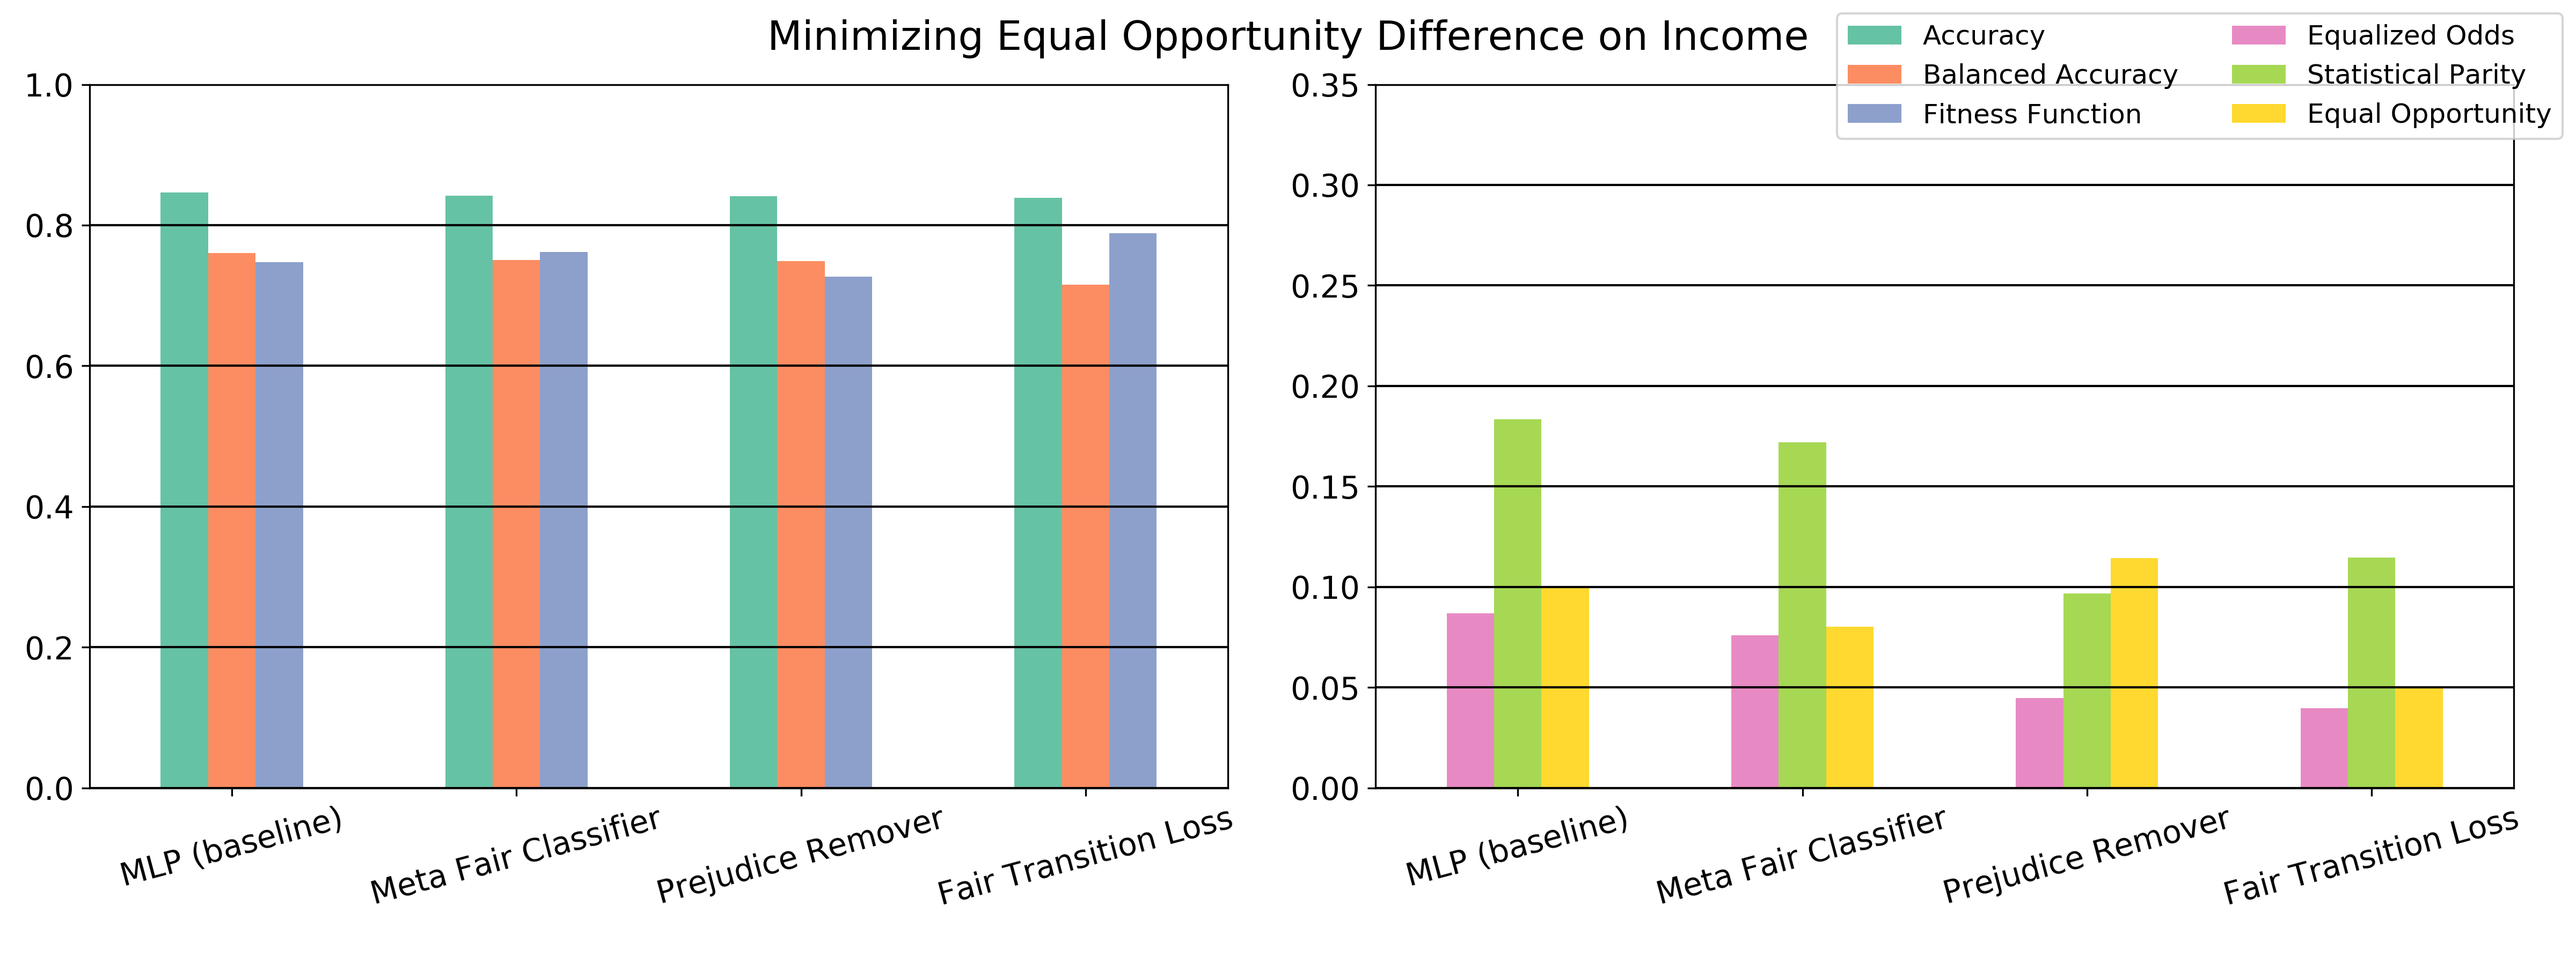
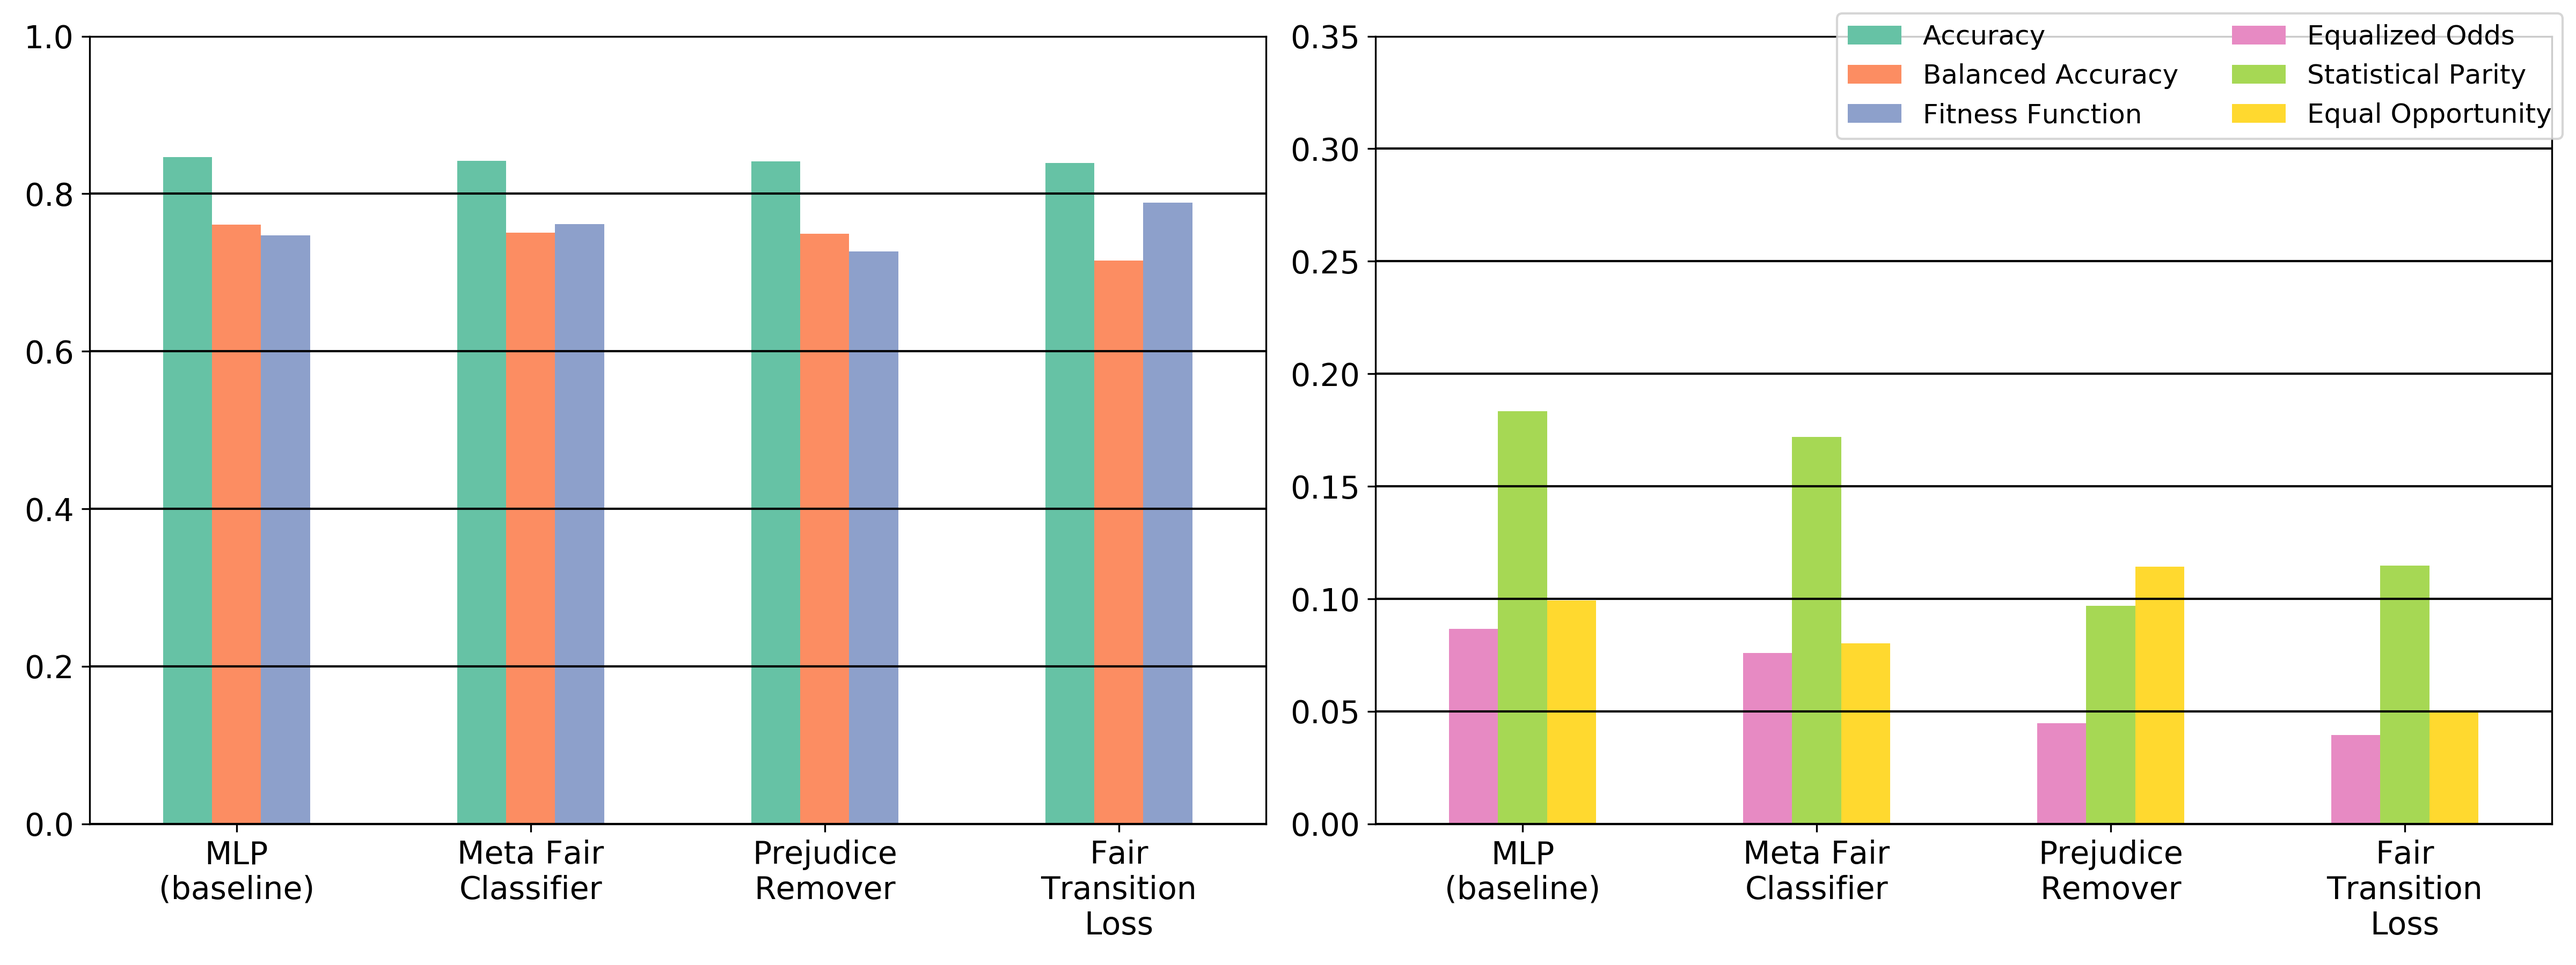
saving results

diff --git a/hyperopt_fair_rule_ga.py b/hyperopt_fair_rule_ga.py
@@ -7,7 +7,7 @@ from aif360.datasets import AdultDataset
 from aif360.metrics import ClassificationMetric
 from models import FairTransitionLossMLP, SimpleMLP
 from aif360.algorithms.inprocessing import PrejudiceRemover, AdversarialDebiasing, MetaFairClassifier, GerryFairClassifier
-from fitness_rules import linear_parity, linear_odds, linear_opportunity, linear_all, accuracy_only
+from fitness_rules import *
 from sklearn.preprocessing import StandardScaler
 import tensorflow.compat.v1 as tf_old
 tf_old.disable_eager_execution()
@@ -28,7 +28,7 @@ mutation_probability = 0.1  # Percentage of genes to mutate. This parameter has 
 keep_parents = 2  # Number of parents to keep in the next population. -1 means keep all parents and 0 means keep nothing.
 sol_per_pop = 20
 
-def eval_metrics(model, dataset, unprivileged_groups, privileged_groups):
+def eval_metrics(model, dataset, unprivileged_groups, privileged_groups, fitness_rule):
     try:
         # sklearn classifier
         y_pred_prob = model.predict_proba(dataset.features)
@@ -56,6 +56,7 @@ def eval_metrics(model, dataset, unprivileged_groups, privileged_groups):
     metrics['stat_par_diff'] = abs(metric.statistical_parity_difference())
     metrics['eq_opp_diff'] = abs(metric.equal_opportunity_difference())
     metrics['theil_ind'] = abs(metric.theil_index())
+    metrics['fitness'] = fitness_rule(metrics)
 
     return metrics
 
@@ -82,26 +83,24 @@ def evolve_model(dataset_reader, model_initializer, fitness_rule):
         model = model.fit(scaled_train)
 
 
-        val_metrics = eval_metrics(model, scaled_val, unprivileged_groups, privileged_groups)
-        fitness = fitness_rule(val_metrics)
+        val_metrics = eval_metrics(model, scaled_val, unprivileged_groups, privileged_groups, fitness_rule)
+
         print('-----------------------------------')
         print('Solution %d' % solution_idx)
         print('Solution:', str(solution))
-        print('Fitness:', fitness)
         describe_metrics(val_metrics)
         print('-----------------------------------')
-        return fitness
+        return val_metrics['fitness']
 
     if fitness_rule is not None:
         # best solution
-        gene_type = genes_space[model_initializer.__name__]['type']
-        gene_space = genes_space[model_initializer.__name__]['space']
+        genes_space = get_genes_space(model_initializer)
         ga_instance = pygad.GA(num_generations=num_generations,
                                num_parents_mating=num_parents_mating,
                                fitness_func=fitness_function,
-                               num_genes=len(gene_type),
-                               gene_space=gene_space,
-                               gene_type=gene_type,
+                               num_genes=len(genes_space['type']),
+                               gene_space=genes_space['space'],
+                               gene_type=genes_space['type'],
                                # initial_population=initial_population,
                                sol_per_pop=sol_per_pop,
                                parent_selection_type=parent_selection_type,
@@ -131,7 +130,7 @@ def evolve_model(dataset_reader, model_initializer, fitness_rule):
     scaled_test = dataset_test.copy()
     scaled_test.features = scaler.transform(scaled_test.features)
 
-    test_metrics = eval_metrics(model, scaled_test, unprivileged_groups, privileged_groups)
+    test_metrics = eval_metrics(model, scaled_test, unprivileged_groups, privileged_groups, fitness_rule)
 
     if fitness_rule is not None:
         test_metrics['fitness_rule'] = fitness_rule.__name__
@@ -165,8 +164,9 @@ def describe_dataset(train=None, val=None, test=None):
     print(test.feature_names)
 
 def describe_metrics(metrics):
+    print("Fitness: {:6.4f}".format(metrics['fitness']))
+    print("Overall accuracy: {:6.4f}".format(metrics['overall_acc']))
     print("Balanced accuracy: {:6.4f}".format(metrics['bal_acc']))
-    print("overall accuracy: {:6.4f}".format(metrics['overall_acc']))
     print("Average odds difference value: {:6.4f}".format(metrics['avg_odds_diff']))
     print("Statistical parity difference value: {:6.4f}".format(metrics['stat_par_diff']))
     print("Equal opportunity difference value: {:6.4f}".format(metrics['eq_opp_diff']))
@@ -264,59 +264,61 @@ def adversarial_debiasing_initializer(sens_attr, unprivileged_groups, privileged
                                      'adv_debias_' + str(datetime.now().timestamp()), tf_old.Session())
     return model
 
+def get_genes_space(model_initializer):
+    genes_space = {
+        'simple_mlp_initializer':  {
+                    'type': [int, float],
+                    'space': [
+                        [128],
+                        {'low': 0.0, 'high': 0.2}
+                    ]
+                },
+        'ftl_mlp_initializer':  {
+                    'type': [int, float, float, float, float, float],
+                    'space': [
+                        [128],
+                        {'low': 0.0, 'high': 0.2},
+                        {'low': 0.0, 'high': 1.0},
+                        {'low': 0.0, 'high': 1.0},
+                        {'low': 0.0, 'high': 1.0},
+                        {'low': 0.0, 'high': 1.0}
+                    ]
+                },
+        'prejudice_remover_initializer':  {
+                    'type': [float],
+                    'space': [
+                        {'low': 0.0, 'high': 50.0}
+                    ]
+                },
+        'meta_fair_classifier_sr_initializer': {
+                    'type': [float],
+                    'space': [
+                        {'low': 0.0, 'high': 2.0}
+                    ]
+                },
+        'meta_fair_classifier_fdr_initializer': {
+                    'type': [float],
+                    'space': [
+                        {'low': 0.0, 'high': 2.0}
+                    ]
+                },
+        'adversarial_debiasing_initializer': {
+                    'type': [int, float],
+                    'space': [
+                        [128],
+                        {'low': 0.0, 'high': 1.0}
+                    ]
+                },
+        'gerry_fair_classifier_initializer': {
+                    'type': [float, float],
+                    'space': [
+                        {'low': 0.0, 'high': 20.0},
+                        [0.1, 0.01, 0.001]
+                    ]
+                },
+    }
 
-genes_space = {
-    'simple_mlp_initializer':  {
-                'type': [int, float],
-                'space': [
-                    [16, 32, 64, 128],
-                    {'low': 0.0, 'high': 0.2}
-                ]
-            },
-    'ftl_mlp_initializer':  {
-                'type': [int, float, float, float, float, float],
-                'space': [
-                    [16, 32, 64, 128],
-                    {'low': 0.0, 'high': 0.2},
-                    {'low': 0.0, 'high': 1.0},
-                    {'low': 0.0, 'high': 1.0},
-                    {'low': 0.0, 'high': 1.0},
-                    {'low': 0.0, 'high': 1.0}
-                ]
-            },
-    'prejudice_remover_initializer':  {
-                'type': [float],
-                'space': [
-                    {'low': 0.0, 'high': 50.0}
-                ]
-            },
-    'meta_fair_classifier_sr_initializer': {
-                'type': [float],
-                'space': [
-                    {'low': 0.0, 'high': 2.0}
-                ]
-            },
-    'meta_fair_classifier_fdr_initializer': {
-                'type': [float],
-                'space': [
-                    {'low': 0.0, 'high': 2.0}
-                ]
-            },
-    'adversarial_debiasing_initializer': {
-                'type': [int, float],
-                'space': [
-                    [32, 64, 128, 256],
-                    {'low': 0.0, 'high': 1.0}
-                ]
-            },
-    'gerry_fair_classifier_initializer': {
-                'type': [float, float],
-                'space': [
-                    {'low': 0.0, 'high': 20.0},
-                    [0.1, 0.01, 0.001]
-                ]
-            },
-}
+    return genes_space[model_initializer.__name__]
 
 datasets = [
     adult_dataset_reader,
@@ -329,16 +331,19 @@ rules = [
 ]
 
 methods = [
-    simple_mlp_initializer
+    #simple_mlp_initializer,
+    #meta_fair_classifier_sr_initializer,
+    #meta_fair_classifier_fdr_initializer,
+    prejudice_remover_initializer,
+    ftl_mlp_initializer
 ]
 
 
 results = []
-results_df = pd.DataFrame(results)
-results_df.to_csv('results_%s.csv' % start_time)
+
 for dataset_reader in datasets:
-    for model_initializer in methods:
-        for fitness_rule in rules:
+    for fitness_rule in rules:
+        for model_initializer in methods:
             best_metrics = evolve_model(dataset_reader, model_initializer, fitness_rule)
             print('Best metrics')
             print('Dataset:', dataset_reader.__name__)

diff --git a/notebooks/2023-05-23/replot.py b/notebooks/2023-05-23/replot.py
@@ -2,20 +2,29 @@ import matplotlib.pyplot as plt
 import numpy as np
 import pandas as pd
 
+import textwrap
+def wrap_labels(ax, width, break_long_words=False):
+    labels = []
+    for label in ax.get_xticklabels():
+        text = label.get_text()
+        labels.append(textwrap.fill(text, width=width,
+                      break_long_words=break_long_words))
+    ax.set_xticklabels(labels, rotation=0)
+
 def plot_comparison(results, dataset_name, fairness_metric):
     my_cmap = plt.cm.get_cmap('Set2')
     colors = my_cmap([x for x in range(6)])
     print(results)
     fig, axis = plt.subplots(1, 2, figsize=(16, 6))
-    fig.suptitle("Minimizing %s Difference on %s\n" % (fairness_metric,dataset_name), fontsize=18)
+    #fig.suptitle("Minimizing %s Difference on %s\n" % (fairness_metric,dataset_name), fontsize=18)
     axis[1].tick_params(axis='x', which='major', labelsize=14)
     axis[1].tick_params(axis='y', which='major', labelsize=14)
     axis[0].tick_params(axis='x', which='major', labelsize=14)
     axis[0].tick_params(axis='y', which='major', labelsize=14)
     axis[0] = results[['overall_acc', 'bal_acc', 'fitness', 'method']] \
-        .plot.bar(x='method',rot=15, ax=axis[0], legend=False, color=colors[:3])
+        .plot.bar(x='method',rot=0, ax=axis[0], legend=False, color=colors[:3])
     axis[1] = results[['avg_odds_diff', 'stat_par_diff', 'eq_opp_diff', 'method']] \
-        .plot.bar(x='method', rot=15, ax=axis[1], legend=False, color=colors[3:])
+        .plot.bar(x='method', rot=0, ax=axis[1], legend=False, color=colors[3:])
     axis[0].set_ylim(0, 1.0)
     axis[1].set_ylim(0, 0.35)
     axis[1].set(xlabel=None)
@@ -28,11 +37,13 @@ def plot_comparison(results, dataset_name, fairness_metric):
     bars, labels = [sum(lol, []) for lol in zip(*bars_labels)]
     metric_explain = get_metric_explain()
     labels = [metric_explain[label] for label in labels]
+    wrap_labels(axis[0], 12)
+    wrap_labels(axis[1], 12)
     fig.legend(bars, labels,
                ##loc='upper left',
                fancybox=True, shadow=False, ncol=2,
                fontsize='large')
-    fig.tight_layout(rect=[0, 0.03, 1, 0.95])
+    fig.tight_layout()#rect=[0, 0.03, 1, 0.95])
     file_name = '%s_%s_plot.png' % (dataset_name, fairness_metric)
     file_name = file_name.lower().replace(' ', '_')
 
@@ -49,26 +60,37 @@ def get_metric_explain():
         'fitness': 'Fitness Function'
     }
 
+def get_table_with_relative_difference(data, numerical_columns):
+    numerical_data = data[numerical_columns]
+    difference = (numerical_data - numerical_data.loc[0, :]) / numerical_data.loc[0, :]
+    data_with_difference = data.copy()
+    for column in difference:
+        for i, x in enumerate(data[column]):
+            data_with_difference.loc[i, column] = "{0:.3f} ({1:+.2%})".format(x, difference[column][i])
+
+    return data_with_difference
+
+metric_names = get_metric_explain()
+numerical_columns = ['overall_acc', 'bal_acc', 'stat_par_diff', 'avg_odds_diff', 'eq_opp_diff', 'fitness']
+latex_columns = ['method', 'fitness', 'overall_acc', 'bal_acc', 'stat_par_diff', 'avg_odds_diff', 'eq_opp_diff']
+
 results = pd.read_csv('parity_results.csv')
 results['fitness'] = results['overall_acc'] - np.abs(results['stat_par_diff'])
 plot_comparison(results, 'Income', 'Statistical Parity')
-results[['overall_acc', 'bal_acc', 'stat_par_diff', 'avg_odds_diff', 'eq_opp_diff', 'fitness']].to_latex('parity_tb.txt')
+get_table_with_relative_difference(results, numerical_columns)[latex_columns]\
+    .rename(columns=metric_names).set_index('method').T.to_latex('parity_tb.txt')
 
 
 results = pd.read_csv('odds_results.csv')
 results['fitness'] = results['overall_acc'] - np.abs(results['avg_odds_diff'])
 plot_comparison(results, 'Income', 'Equalized Odds')
-results[['overall_acc', 'bal_acc', 'stat_par_diff', 'avg_odds_diff', 'eq_opp_diff', 'fitness']].to_latex('odds_tb.txt')
+get_table_with_relative_difference(results, numerical_columns)[latex_columns]\
+    .rename(columns=metric_names).set_index('method').T.to_latex('odds_tb.txt')
 
 results = pd.read_csv('opportunity_results.csv')
 results['fitness'] = results['overall_acc'] - np.abs(results['eq_opp_diff'])
 plot_comparison(results, 'Income', 'Equal Opportunity')
-results[['overall_acc', 'bal_acc', 'stat_par_diff', 'avg_odds_diff', 'eq_opp_diff', 'fitness']].to_latex('opp_tb.txt')
-
-results = pd.read_csv('all_results.csv')
-results['agg'] = np.sqrt(results['stat_par_diff']**2 + results['eq_opp_diff']**2 + results['avg_odds_diff']**2)
-results['fitness'] = results['overall_acc'] - np.sqrt(results['stat_par_diff']**2 + results['eq_opp_diff']**2 + results['avg_odds_diff']**2)
-plot_comparison(results, 'Income', 'All Three')
-results[['overall_acc', 'bal_acc', 'stat_par_diff', 'avg_odds_diff', 'eq_opp_diff', 'fitness']].to_latex('all_tb.txt')
+get_table_with_relative_difference(results, numerical_columns)[latex_columns]\
+    .rename(columns=metric_names).set_index('method').T.to_latex('opp_tb.txt')
 
 

diff --git a/fitness_rules.py b/fitness_rules.py
@@ -30,6 +30,21 @@ def linear_opportunity(metrics):
     opp = metrics['eq_opp_diff']
     return acc - abs(opp)
 
+
+def bal_acc_linear_parity(metrics):
+    acc = metrics['bal_acc']
+    par = metrics['stat_par_diff']
+    return acc - abs(par)
+
+def bal_acc_linear_odds(metrics):
+    acc = metrics['bal_acc']
+    odds = metrics['avg_odds_diff']
+    return acc - abs(odds)
+
+def bal_acc_linear_opportunity(metrics):
+    acc = metrics['bal_acc']
+    opp = metrics['eq_opp_diff']
+    return acc - abs(opp)
 def linear_all(metrics):
     acc = metrics['overall_acc']
     opp = metrics['eq_opp_diff']
